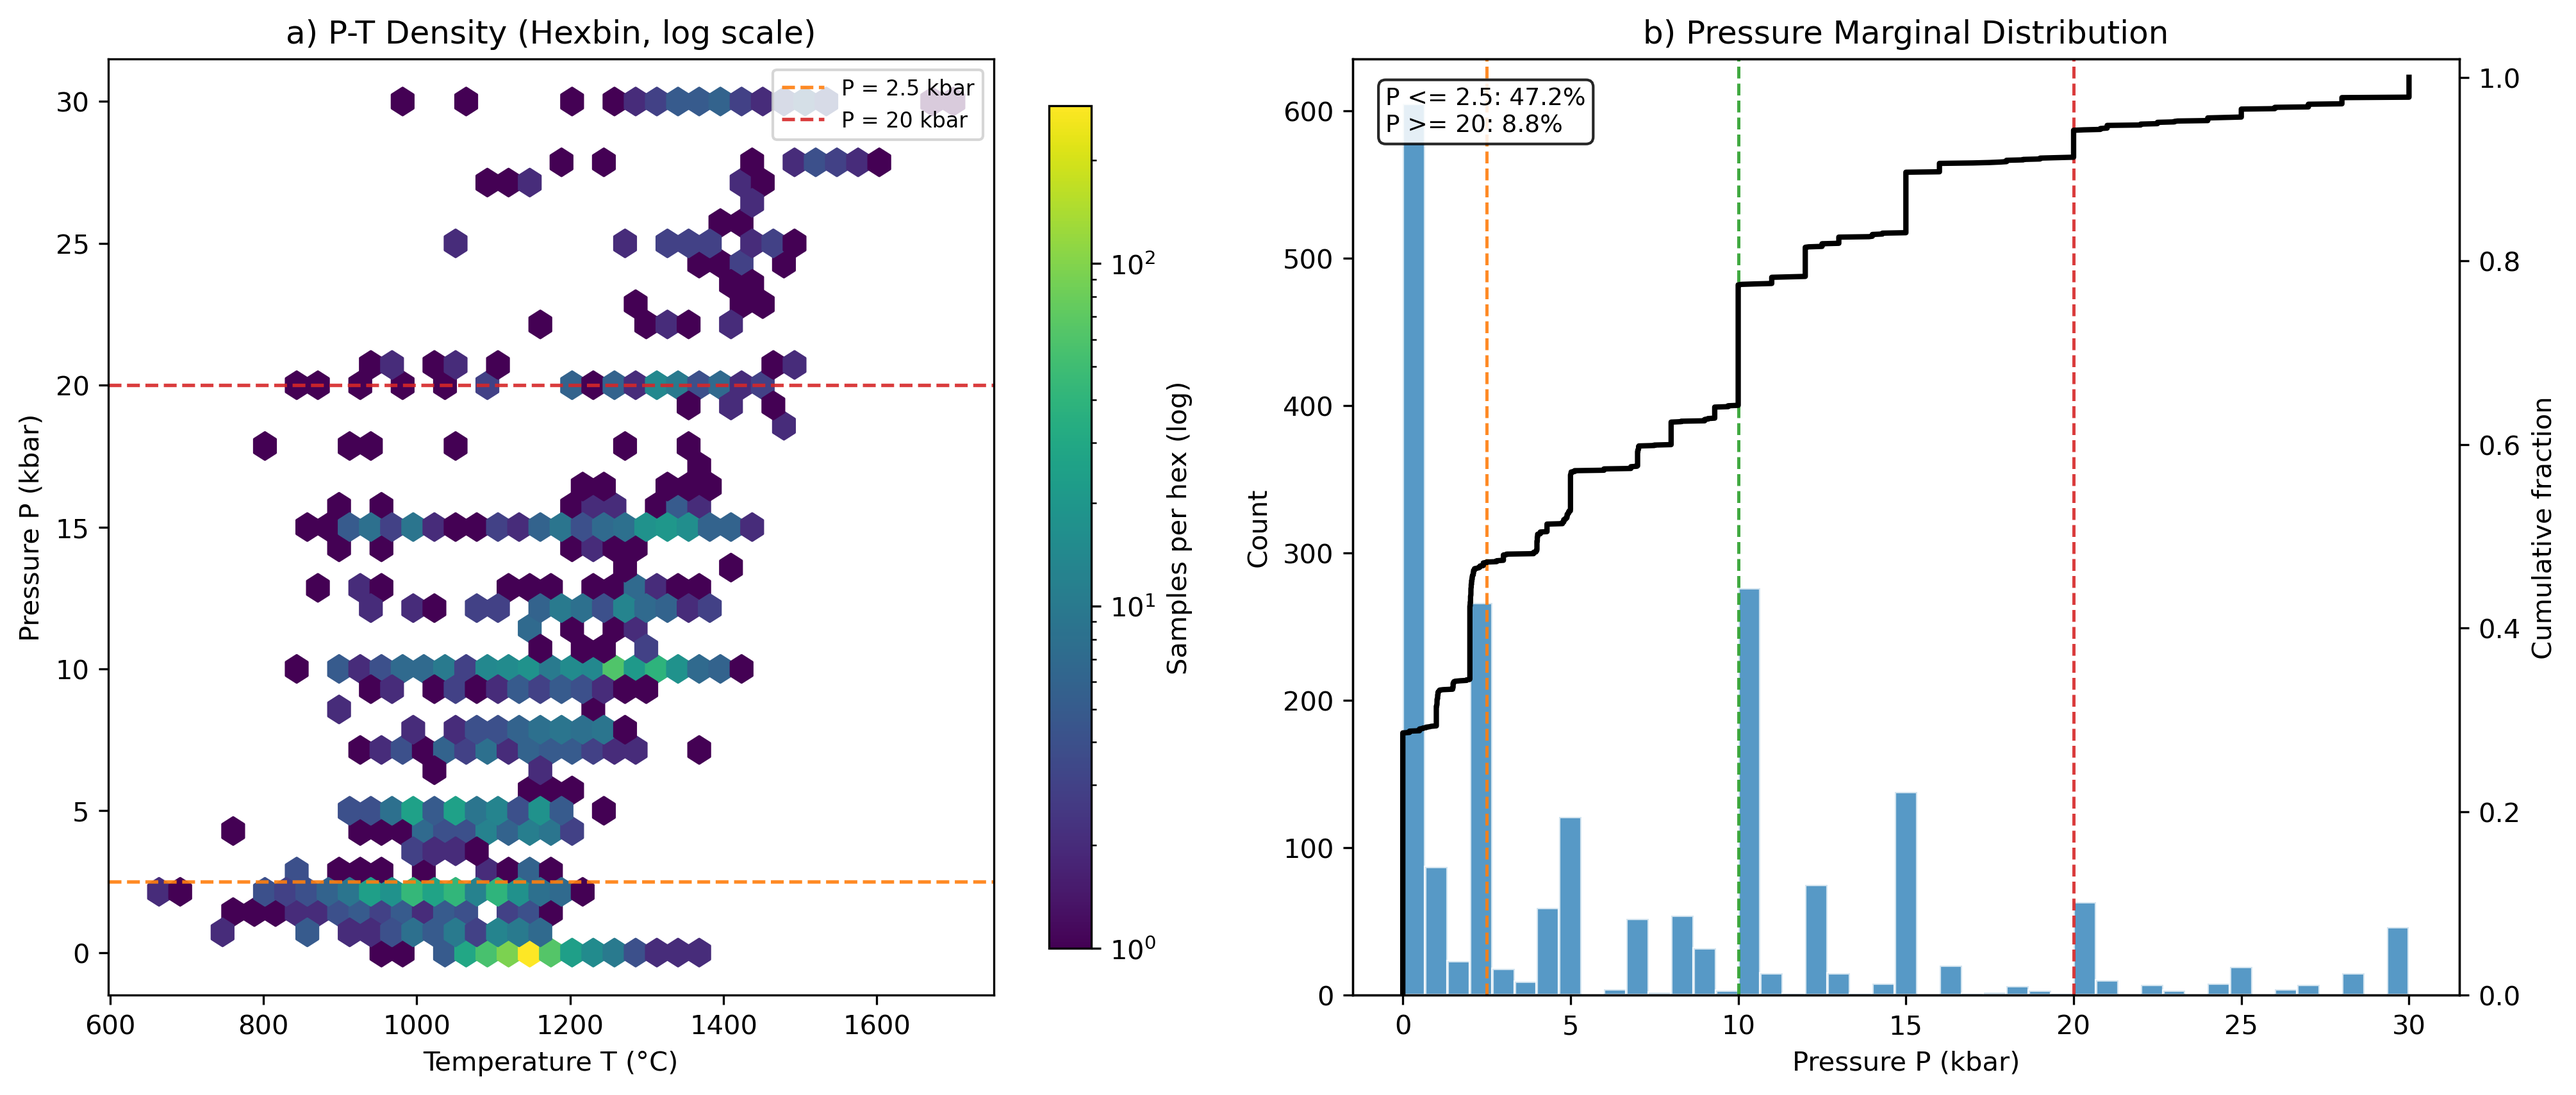
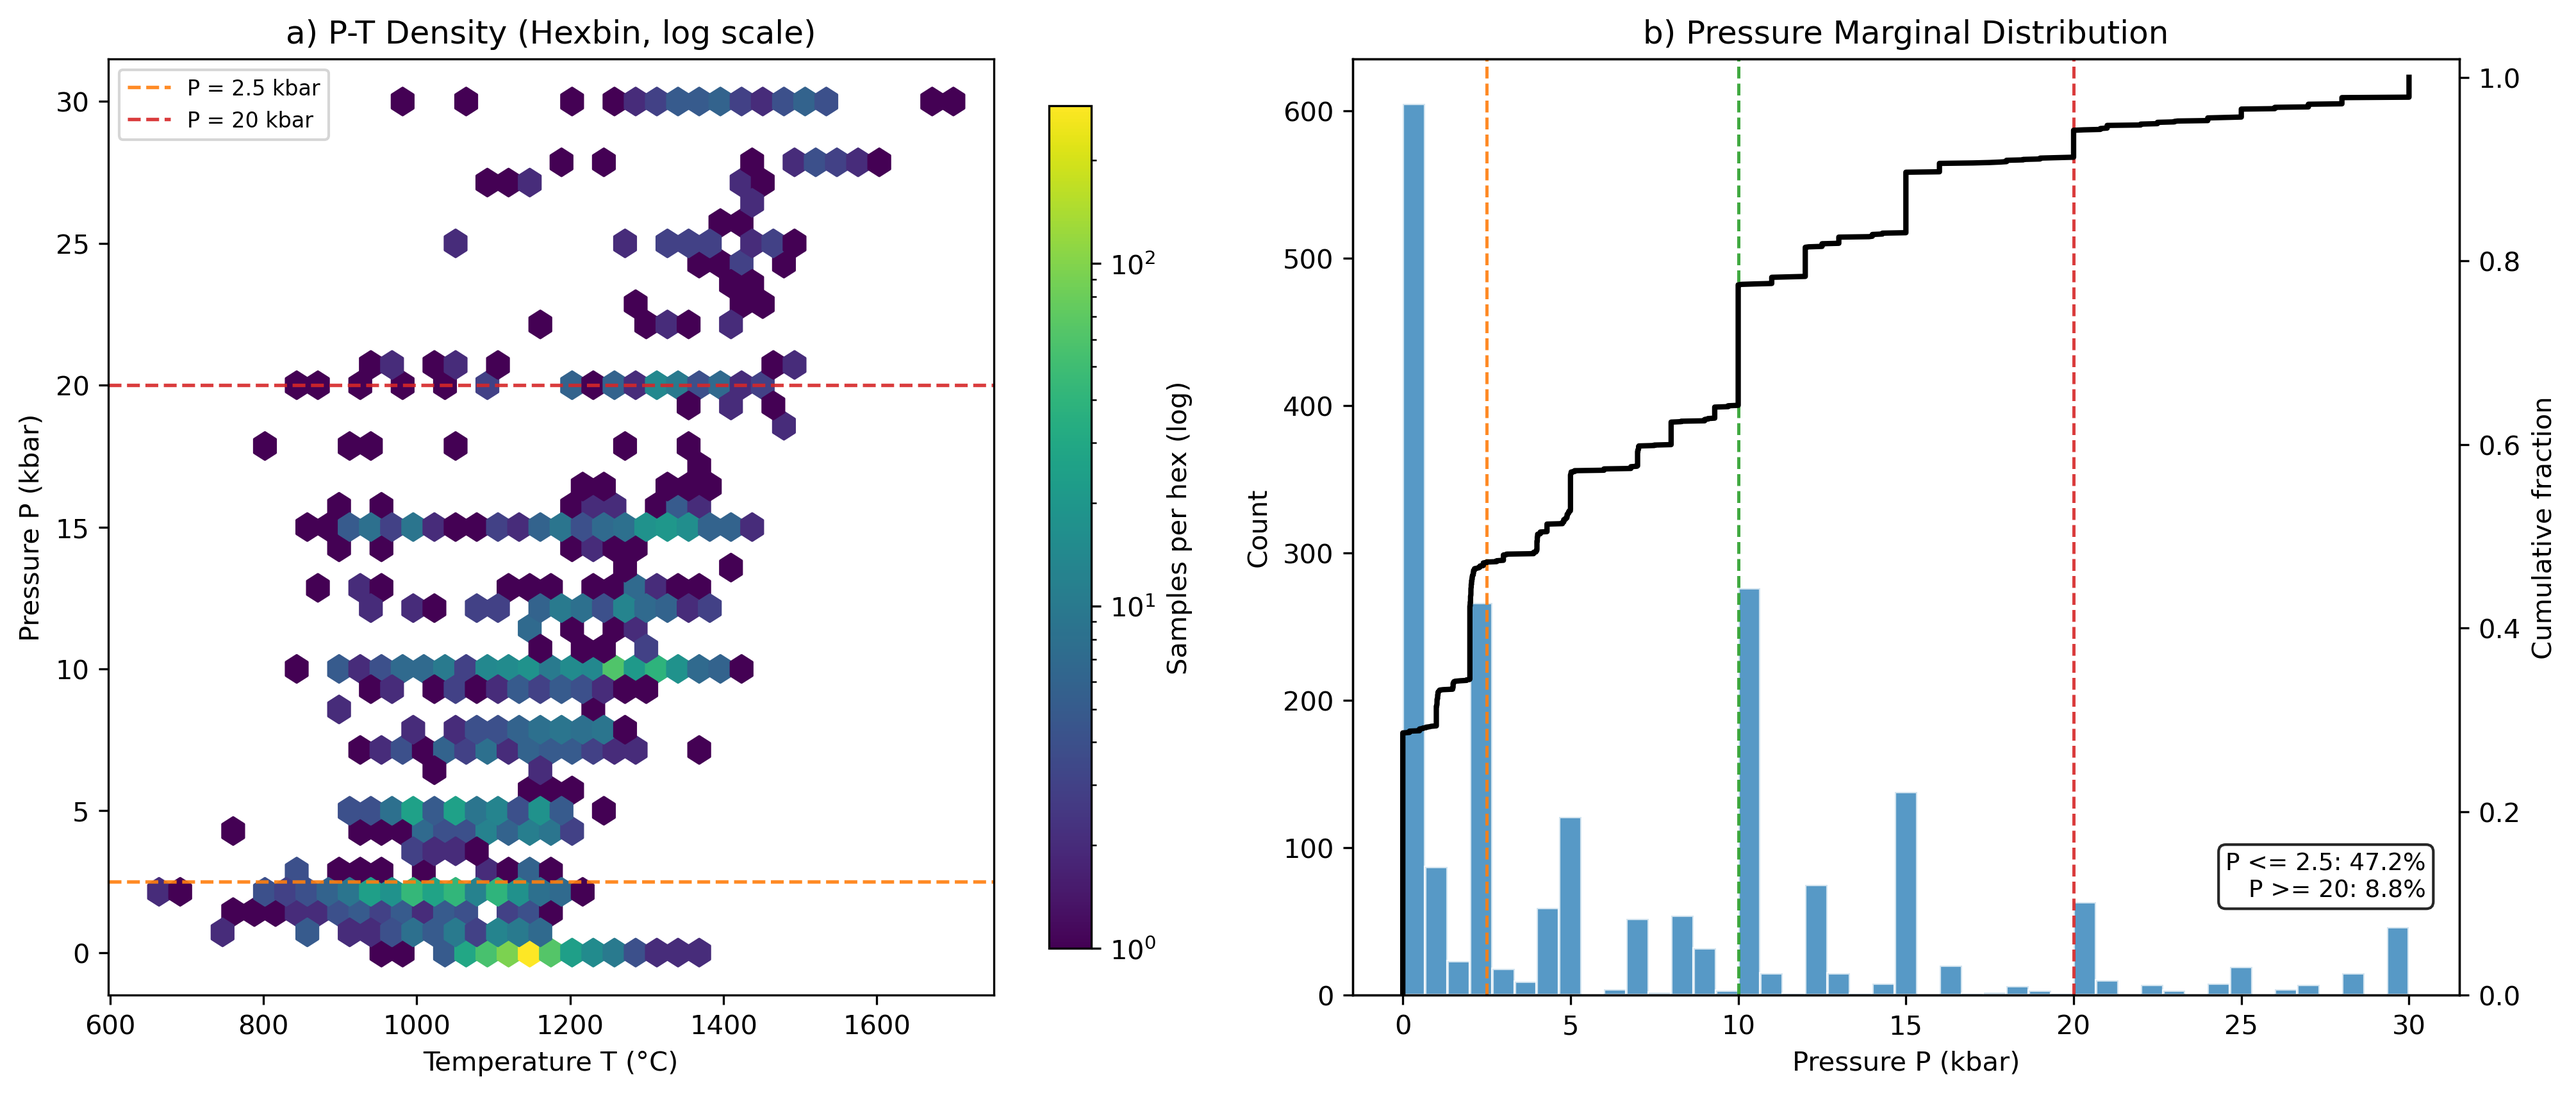
fix: adjust Fig.1 legend positions to avoid occlusion
- Panel a): move legend from upper-right to upper-left
- Panel b): move stats text box to lower-right (0.97, 0.10)

diff --git a/tools/plot_offline_figures.py b/tools/plot_offline_figures.py
@@ -728,7 +728,7 @@ def _plot_sampling_bias_triptych(data_path: str,
     axes[0].set_ylabel("Pressure P (kbar)")
     if show_subplot_titles:
         axes[0].set_title("a) P-T Density (Hexbin, log scale)")
-    axes[0].legend(loc="upper right", fontsize=8, frameon=True)
+    axes[0].legend(loc="upper left", fontsize=8, frameon=True)
     cbar0 = fig.colorbar(hb, ax=axes[0], shrink=0.9)
     cbar0.set_label("Samples per hex (log)")
 
@@ -748,12 +748,12 @@ def _plot_sampling_bias_triptych(data_path: str,
     cdf_ax.set_ylim(0.0, 1.02)
     cdf_ax.set_ylabel("Cumulative fraction")
     axes[1].text(
-        0.03, 0.97,
+        0.97, 0.10,
         f"P <= 2.5: {ratio_p_le_2p5 * 100:.1f}%\nP >= 20: {ratio_p_ge_20 * 100:.1f}%",
         transform=axes[1].transAxes,
         fontsize=9,
-        va="top",
-        ha="left",
+        va="bottom",
+        ha="right",
         bbox=dict(boxstyle="round", facecolor="white", alpha=0.85),
     )
 
